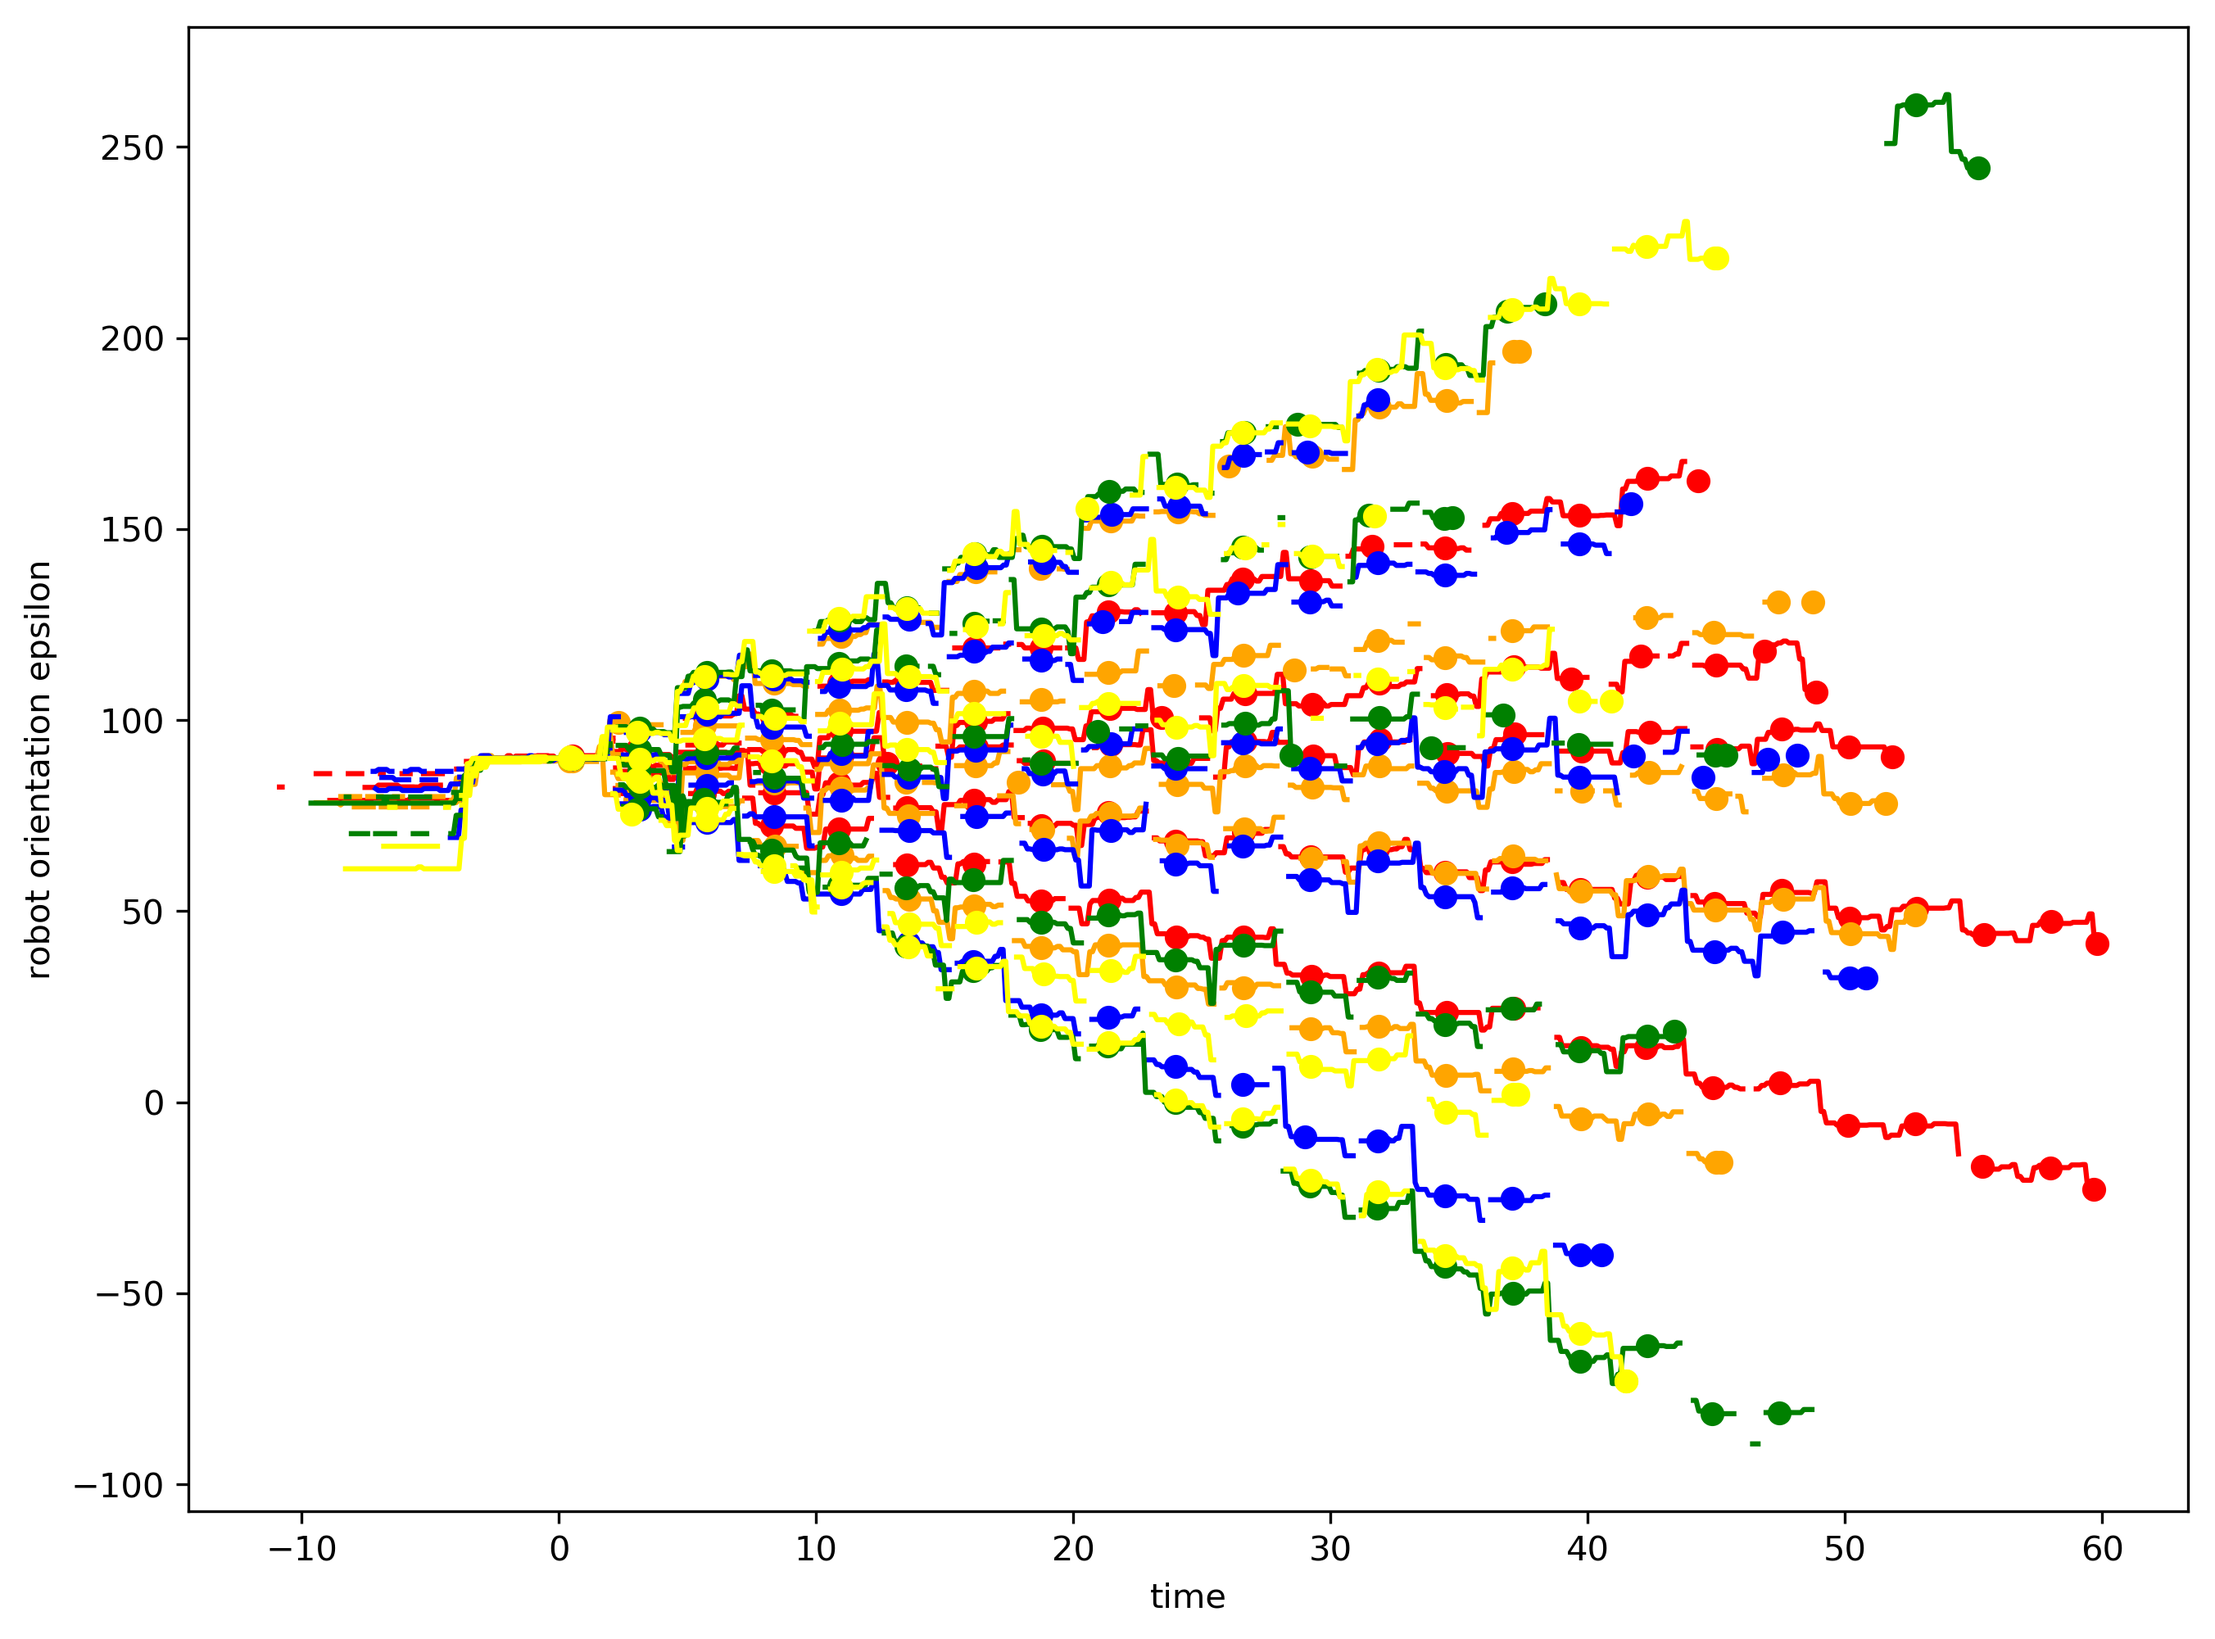
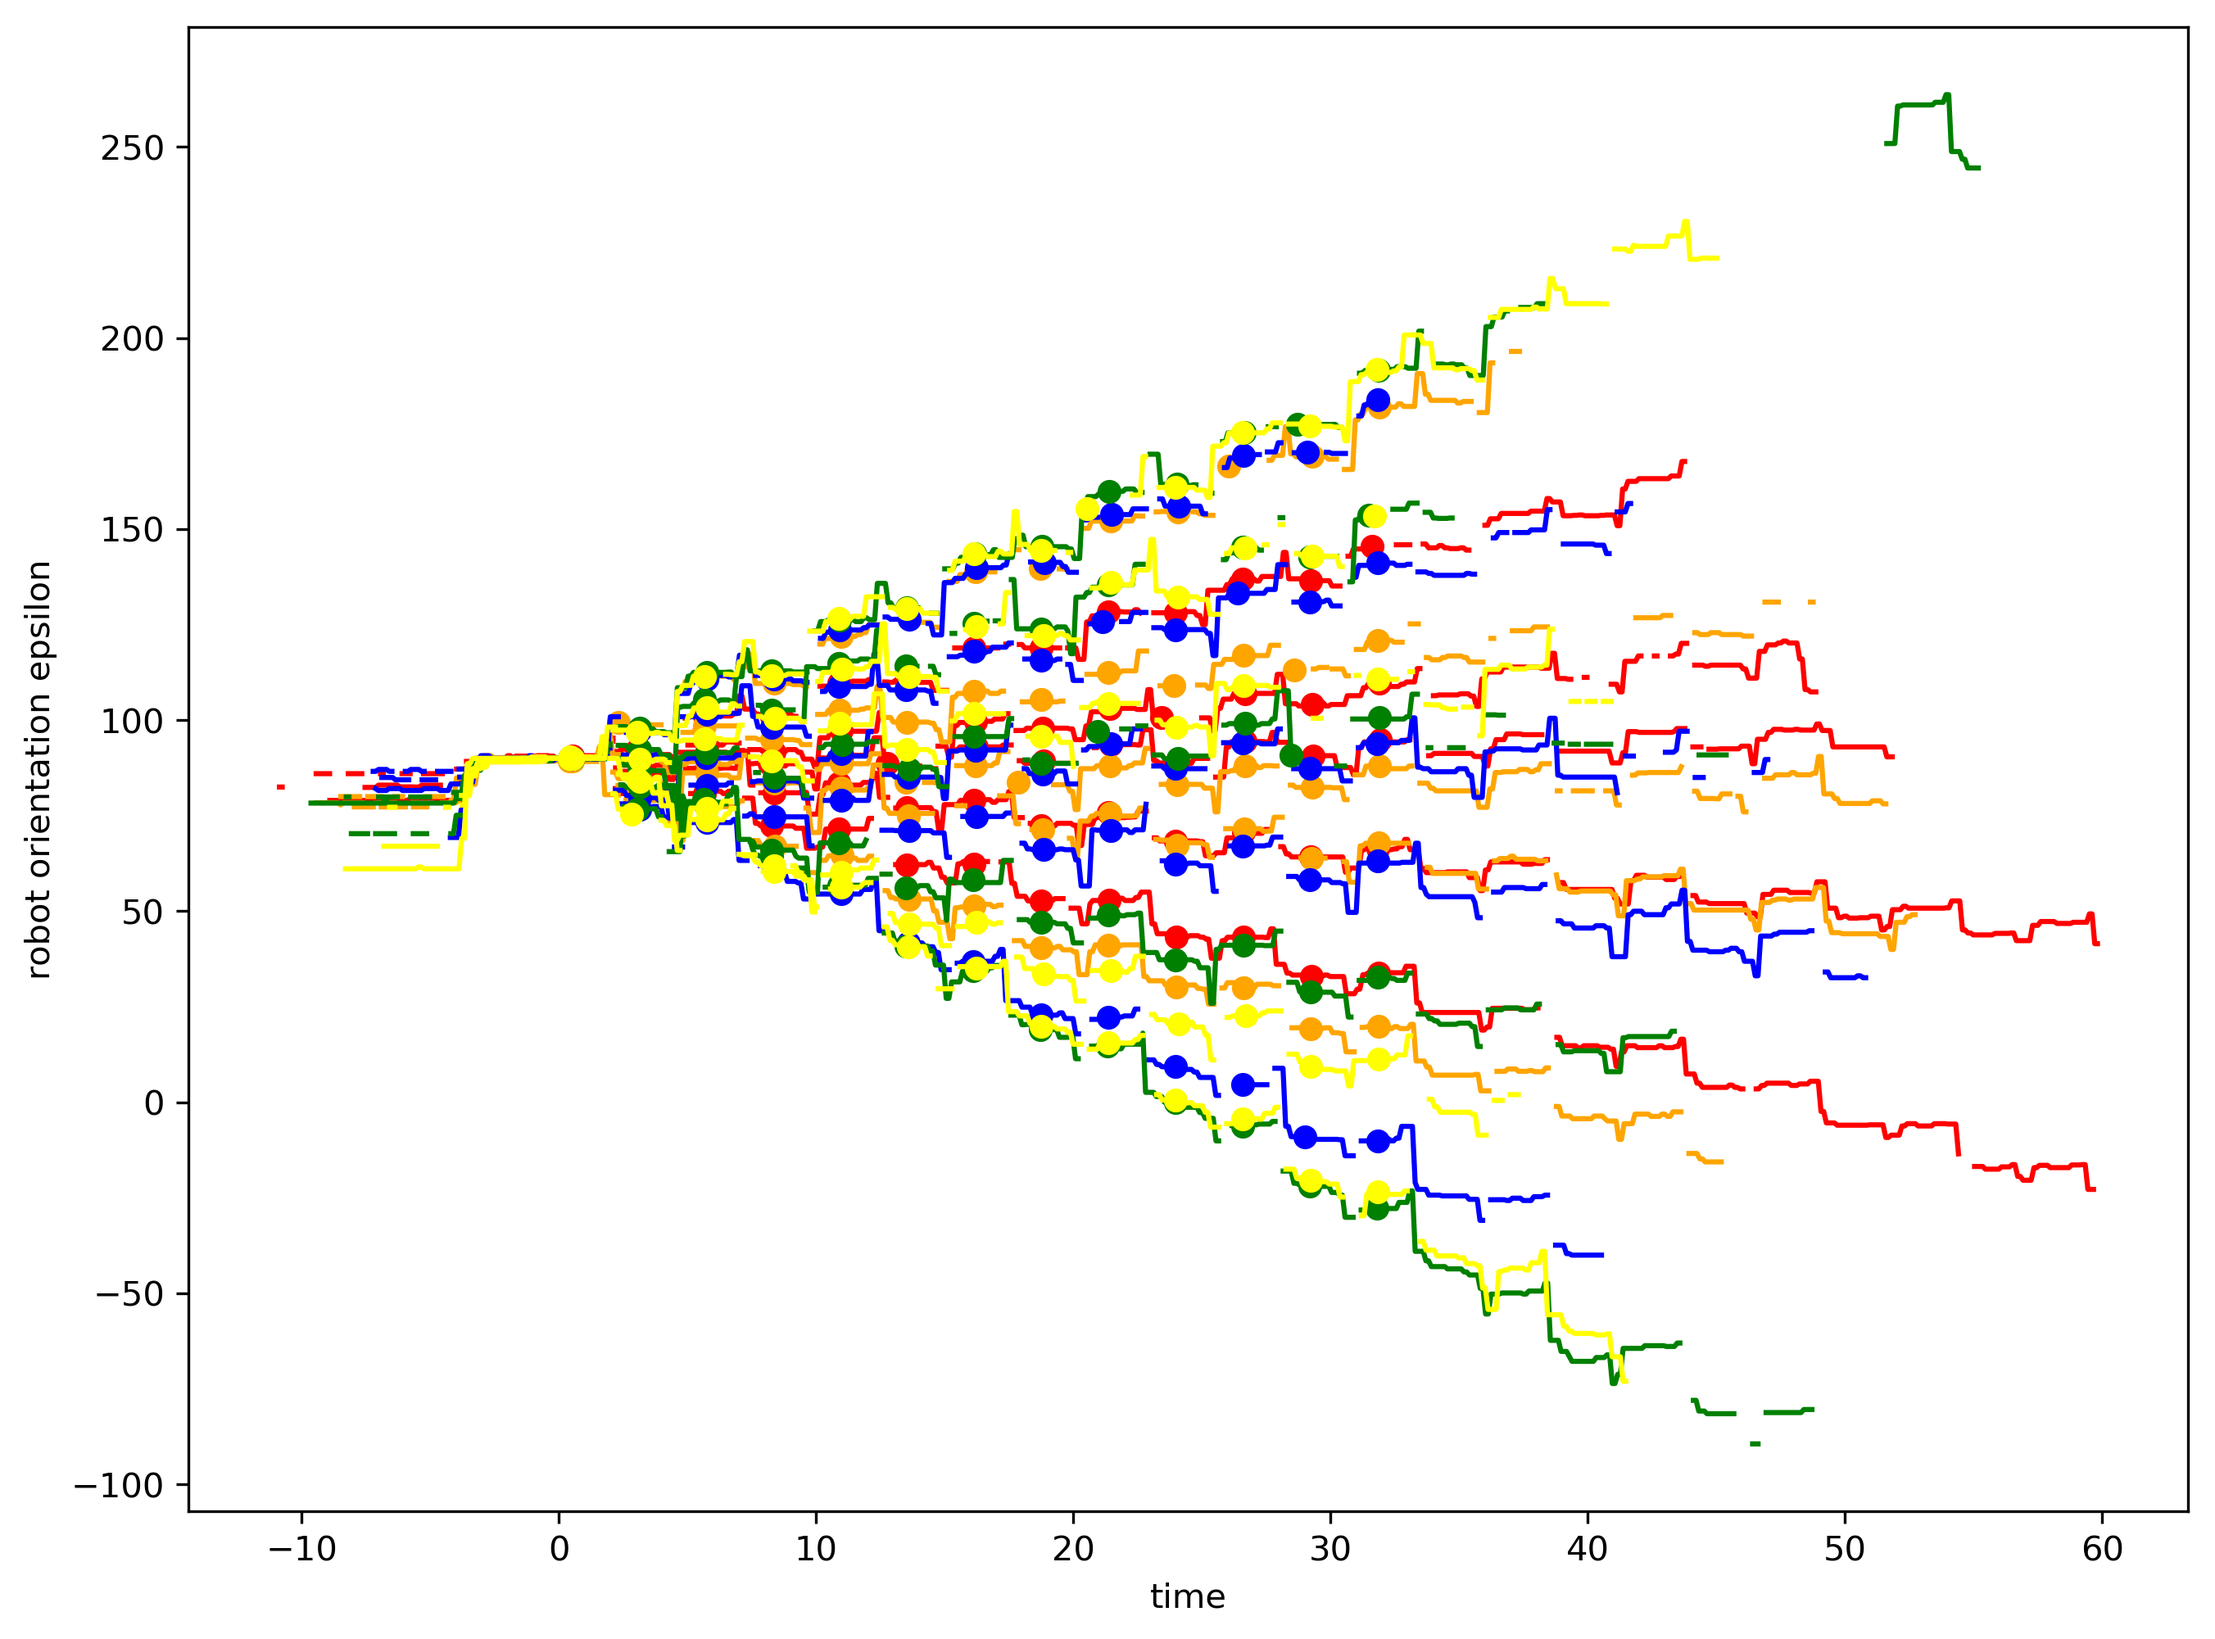
cont. eval exp gatlaw

diff --git a/2019_12_GaitLawExp/main_eval.py b/2019_12_GaitLawExp/main_eval.py
@@ -77,6 +77,7 @@ for q1_idx, q1 in enumerate(Q1):
             print('can not load data...')
         print('find poses ...')
         POSE_IDX = uti.find_poses_idx(db, neighbors=10)
+        POSE_IDX = [pidx[:13] for pidx in POSE_IDX]
         n_steps[name] = len(POSE_IDX[0])-1
 
     # %% ### Track of feet:
@@ -124,10 +125,82 @@ for q1_idx, q1 in enumerate(Q1):
     # %% EPS
         print('plot eps....')
         plt.figure('eps')
-        eps = pf.plot_eps(db, POSE_IDX, name, version, save_as_tikz=False)
+        eps, t = pf.plot_eps(db, POSE_IDX, name, version, save_as_tikz=False)
 
         MEAS[q1str][q2str]['eps'] = eps
-        DEPS[q2_idx][q1_idx] = np.nanmean(np.diff(eps))*2  # mean deps/cycle
+        MEAS[q1str][q2str]['time'] = t
+        MEAS[q1str][q2str]['time_full'] = db[0]['time']
+        MEAS[q1str][q2str]['eps_full'] = db[0]['eps']
+        deps = np.nanmean(np.diff(eps))*2  # mean deps/cycle
+        DEPS[q2_idx][q1_idx] = deps
+
+# %% DEPS Visual
+    plt.figure('eps'+q1str)
+    col = pf.get_run_color()[name]
+    Q2_ = [-.5, -.25, 0]
+    for q2_idx, q2 in enumerate(Q2):
+        q2str = str(q2).replace('.', '').replace('00', '0')
+        plt.plot(MEAS[q1str][q2str]['time_full'],
+                 MEAS[q1str][q2str]['eps_full'], col)
+        t, eps = MEAS[q1str][q2str]['time'], MEAS[q1str][q2str]['eps']
+        deps = DEPS[q2_idx][q1_idx]
+        plt.plot(t, eps, 'o', color=col, alpha=.5, markersize=4)
+        
+
+        # Polyfit
+        idx = np.isfinite(t) & np.isfinite(eps)  # filter NaN
+        epsdot, c = np.polyfit(t[idx], eps[idx], 1)
+        dt = t[-1] - t[0]
+        # counter check
+        deps_ = epsdot*dt/(len(eps)-1)*2
+        print(deps, deps_)
+        plt.plot([t[0], t[-1]], [c, c+dt*epsdot], 'k')
+        
+        poly = np.poly1d([epsdot, c])
+        # deviation of eps from mean of deps trend for each pose
+        deps_mean_eps = [poly(ti) - epsi for ti, epsi in zip(t[idx], eps[idx])]
+        # mean deviation of eps of deps trend
+        mean_deps_mean_eps = np.mean(np.abs(deps_mean_eps))
+        MEAS[q1str][q2str]['abs_deps'] = mean_deps_mean_eps
+        
+        # plot
+        for deps_mean, ti in zip(deps_mean_eps, t[idx]):
+            plt.plot([ti, ti], [poly(ti), poly(ti)-deps_mean], 'k')
+        plt.text(t[-1]+3, eps[-1], 'Deps/cyc =' + str(round(deps_, 1)) + '  deps=' + str(round(mean_deps_mean_eps, 1)),
+                 ha="left", va="bottom",
+                 bbox=dict(boxstyle="square",
+                           ec=(1., 0.5, 0.5), fc=(1., 0.8, 0.8),
+                           ))
+
+#    mean_abs_deps = np.mean([MEAS[q1str][key]['abs_deps'] for key in MEAS[q1str]])
+#    MEAS[q1str]['abs_deps'] = mean_abs_deps
+    
+    # plot
+    plt.ylabel('robot orientation epsilon [deg]')
+    plt.xlabel('time [s]')
+    plt.title('q1=' + q1str)
+    plt.grid()
+    fig = plt.gcf()
+    fig.set_size_inches(10.5, 8)
+    fig.savefig('eps'+q1str+'.png', transparent=True,
+                dpi=300, bbox_inches='tight')
+    kwargs = {'extra_axis_parameters': {'width=10cm', 'height=6cm',
+                                        'tick pos=left'}}
+    my_save.save_plt_as_tikz('tex/eps'+q1str+'.tex', **kwargs)
+
+    
+
+# %% ABS DEPS # Schwankung des Roboters um seine Trendlinie
+plt.figure('mean abs deps')
+abs_deps = [MEAS[key]['abs_deps'] for key in MEAS]
+plt.plot(Q1, abs_deps)
+plt.xticks(Q1)
+plt.yticks([round(a, 1) for a in abs_deps])
+plt.xlabel('step length $q_1$ [deg]')
+plt.ylabel('mean of oscillation amplitude [deg]')
+plt.grid()
+
+my_save.save_plt_as_tikz('tex/oscillation_amplitude.tex')
 
 
 # %% EPS
@@ -138,6 +211,7 @@ fig = plt.gcf()
 fig.set_size_inches(10.5, 8)
 fig.savefig('eps.png', transparent=True,
             dpi=300, bbox_inches='tight')
+
 
 # %% EPS / GAIT
 print('create figure: EPS/GAIT')
@@ -150,14 +224,14 @@ if len(Q1) > 1:
 # surf = plt.contour(X_idx, Y_idx, DEPS, levels=levels, colors='k')
 # plt.clabel(surf, levels, inline=True, fmt='%2.0f')
 
-#
-#for gait in GAITS_raw:
-#    gait.plot_gait()
-#    gait.plot_orientation(length=.5*sc)
 
-for gait in GAITS_cor:
-    gait.plot_gait(g='g')
+for gait in GAITS_raw:
+    gait.plot_gait(g='c')
     gait.plot_orientation(length=.5*sc)
+
+#for gait in GAITS_cor:
+#    gait.plot_gait(g='c')
+#    gait.plot_orientation(length=.5*sc)
 
 
 

diff --git a/2019_12_GaitLawExp/gait_law_utils.py b/2019_12_GaitLawExp/gait_law_utils.py
@@ -110,7 +110,7 @@ def find_poses_idx(db, neighbors=5):
                             pose_idx.append(idx)  # append ori
         # last#
         idx = len(db[exp_idx]['pr3'])-1
-        for jdx in range(idx, idx-100, -1):  # look the last neigbors
+        for jdx in range(idx, idx-100, -1):  # look the last neighbors
             if not np.isnan(db[exp_idx]['aIMG2'][jdx]):
                 # check
                 dr = db[exp_idx]['pr2'][idx] - db[exp_idx]['pr2'][jdx]

diff --git a/2019_12_GaitLawExp/plotfun_GaitLawExp.py b/2019_12_GaitLawExp/plotfun_GaitLawExp.py
@@ -220,7 +220,7 @@ def plot_eps(db, POSE_IDX, run, mode, save_as_tikz=False):
     plt.xlabel('time')
     plt.ylabel('robot orientation epsilon')
 
-    return mu_eps
+    return mu_eps, t
 
 
 def plot_deps_over_steps(db, POSE_IDX, run, mode, save_as_tikz=False):
